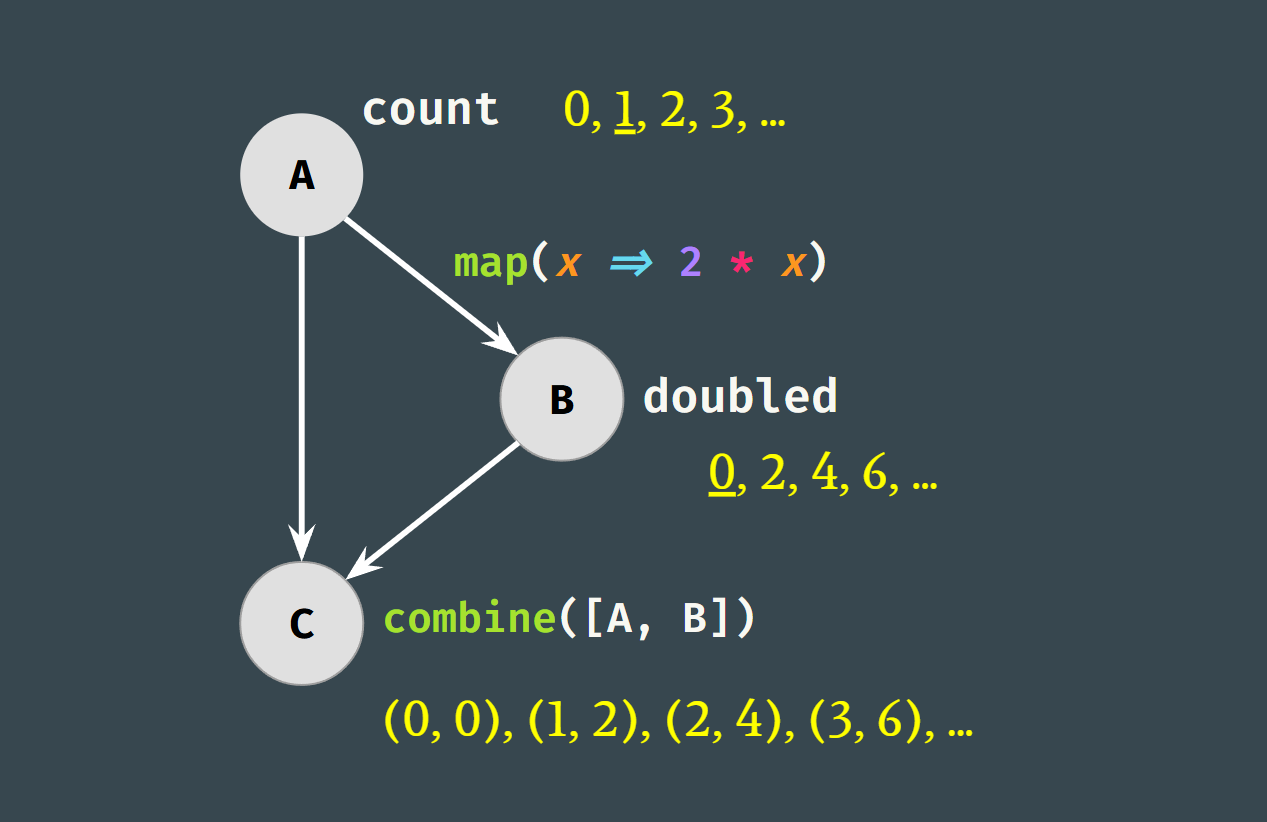
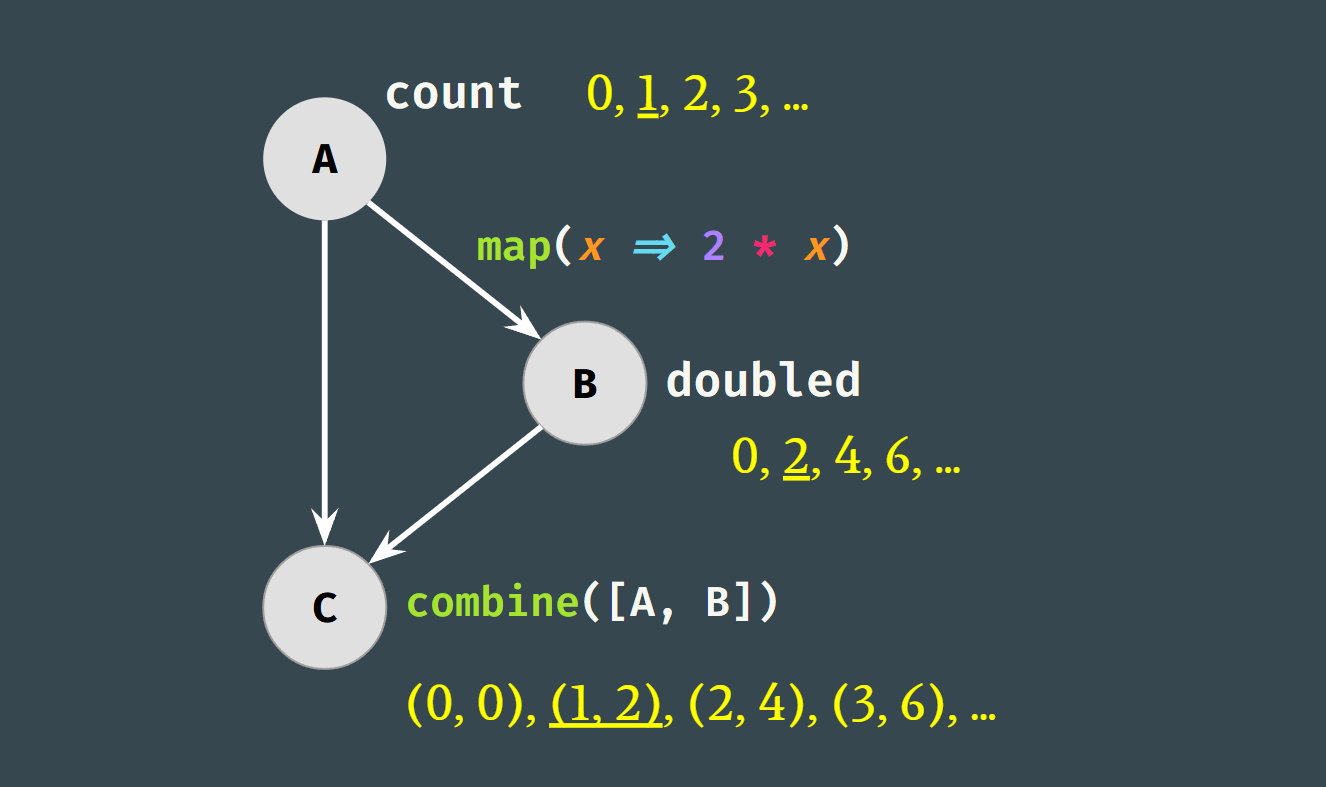
.

diff --git a/packages/docs/src/content/docs/reference/api.md b/packages/docs/src/content/docs/reference/api.md
@@ -1,7 +1,7 @@
 ---
 prev: false
 next: false
-title: API Reference
+title: Index
 sidebar:
     order: 1
 ---
